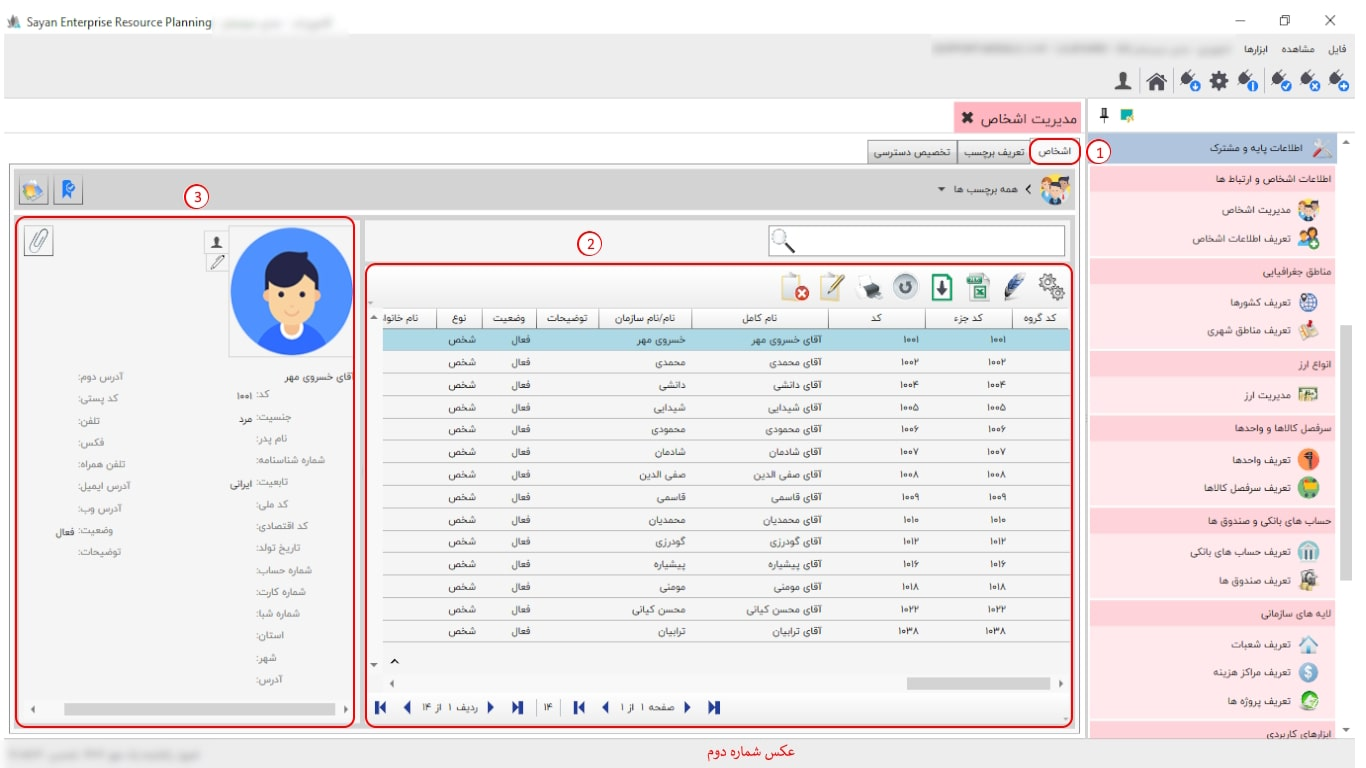
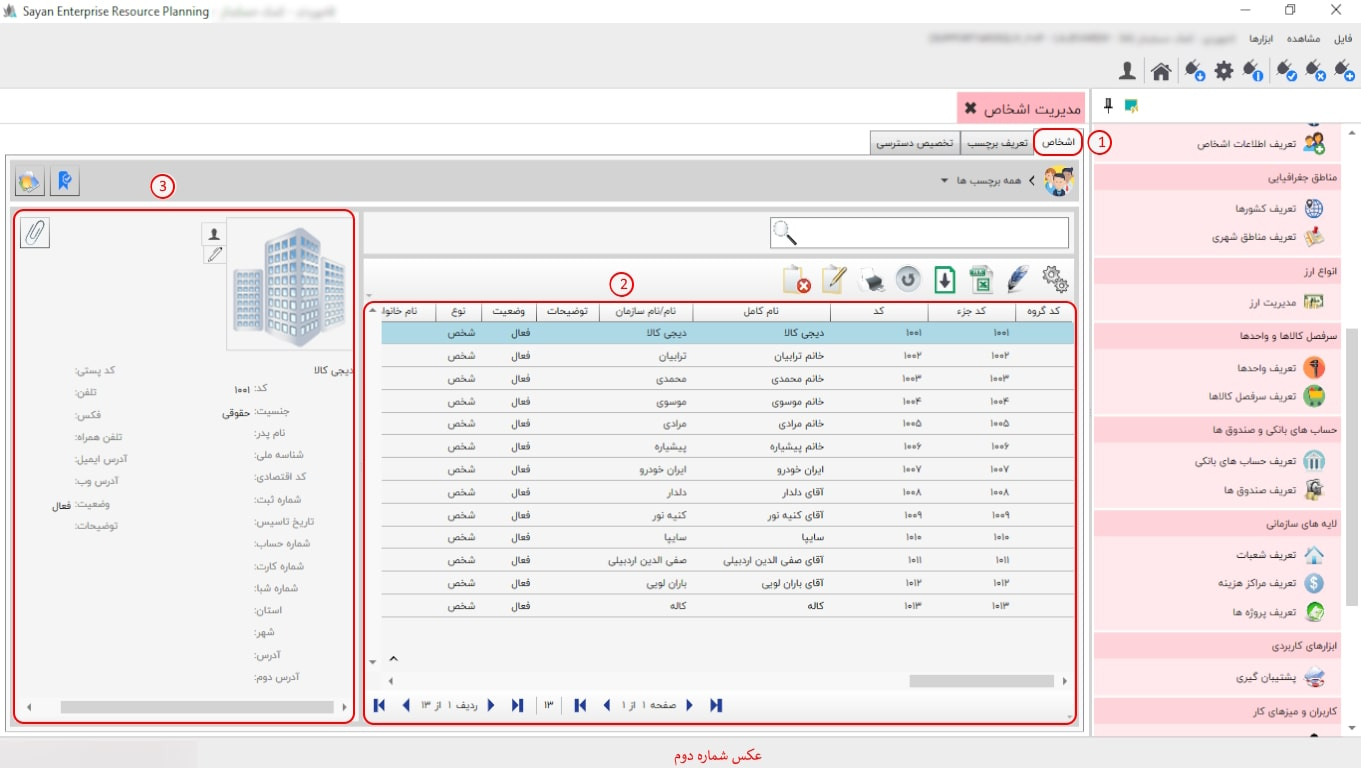
ایجاد عکس

Changed region(s): [[0.0, 0.0, 1.0, 1.0], [0.0, 0.0, 0.1852, 0.0312], [0.216, 0.0, 0.2469, 0.0312]]

diff --git a/Help/fa-IR/_18_اطلاعات پایه و مشترک/_01_مدیریت اشخاص/Index.html b/Help/fa-IR/_18_اطلاعات پایه و مشترک/_01_مدیریت اشخاص/Index.html
@@ -65,6 +65,12 @@
 		برای ادامه مطلب به عکس شماره ششم مراجعه نمایید.
 	</p>
 	<img class="FitPic" src="l6.jpg"/>
+	<p>
+		-موارد انتخاب شده (کادر شماره یک):
+	</p>
+	<p>
+		-موارد انتخاب نشده (کادر شماره دوم ):
+	</p>
 </body>
 
 </html>
